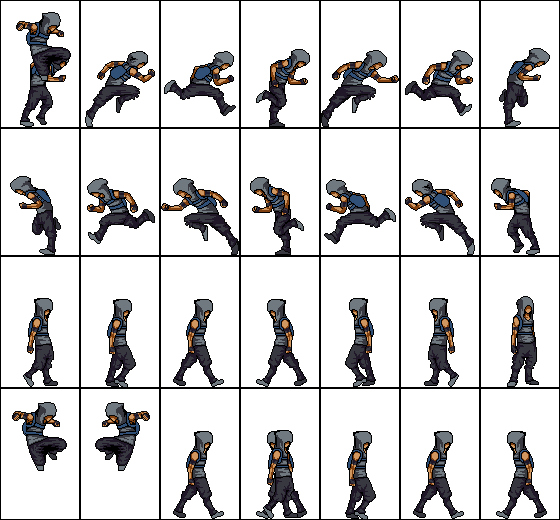
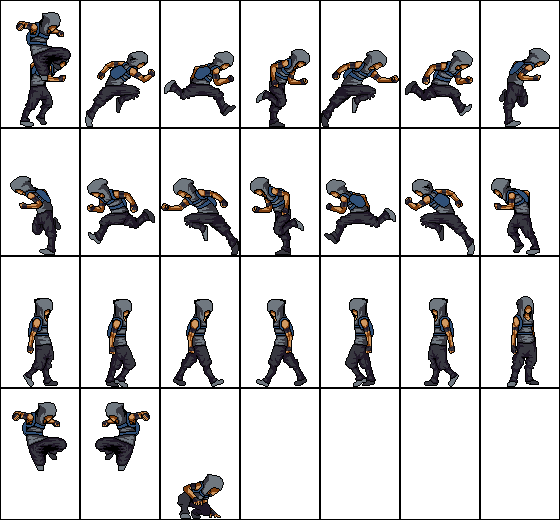
Player is ducking now

diff --git a/APSGame/src/org/sep/gameobjects/Player.java b/APSGame/src/org/sep/gameobjects/Player.java
@@ -1,8 +1,3 @@
-/*
- * To change this license header, choose License Headers in Project Properties.
- * To change this template file, choose Tools | Templates
- * and open the template in the editor.
- */
 package org.sep.gameobjects;
 
 import java.awt.Graphics2D;
@@ -33,6 +28,7 @@ public class Player extends GameObject {
     private Animation runningLeft, runningRight;
     private Animation standing;
     private Animation jumpingLeft, jumpingRight;
+    private Animation duck;
 
     private boolean isJumping = false;
 
@@ -80,6 +76,9 @@ public class Player extends GameObject {
         } else if (game.getInput().isKeyDown(Input.KeyCode.LEFT)) {
             current = walkingLeft;
             this.vx = -WALKING_SPEED;
+        } else if (game.getInput().isKeyDown(Input.KeyCode.DOWN)) {
+            current = duck;
+            this.vx = 0.0f;
         } else {
             vx = 0.0f;
             current = standing;
@@ -126,6 +125,7 @@ public class Player extends GameObject {
         standing = new Animation();
         jumpingLeft = new Animation();
         jumpingRight = new Animation();
+        duck = new Animation();
 
         walkingRight.addFrame(new Sprite(playerImage, 1, 257, 78, 126), 0.2);
         walkingRight.addFrame(new Sprite(playerImage, 81, 257, 78, 126), 0.2);
@@ -155,6 +155,8 @@ public class Player extends GameObject {
 
         jumpingRight.addFrame(new Sprite(playerImage, 1, 389, 78, 126), 1.0);
         jumpingLeft.addFrame(new Sprite(playerImage, 81, 389, 78, 126), 1.0);
+        
+        duck.addFrame(new Sprite(playerImage, 161, 389, 78, 126), 1.0);
 
         current = standing;
 

diff --git a/APSGame/src/org/sep/jnrgame/RegularGameScreen.java b/APSGame/src/org/sep/jnrgame/RegularGameScreen.java
@@ -2,15 +2,8 @@ package org.sep.jnrgame;
 
 import java.awt.Color;
 import java.awt.Graphics2D;
-import java.awt.image.BufferedImage;
-import java.io.IOException;
-import java.io.InputStream;
-import javax.imageio.ImageIO;
-import org.sep.drawable.Animation;
-import org.sep.drawable.Sprite;
 import org.sep.framework.Framework;
 import org.sep.framework.Game;
-import org.sep.framework.Input;
 import org.sep.framework.Screen;
 import org.sep.gameobjects.Player;
 
